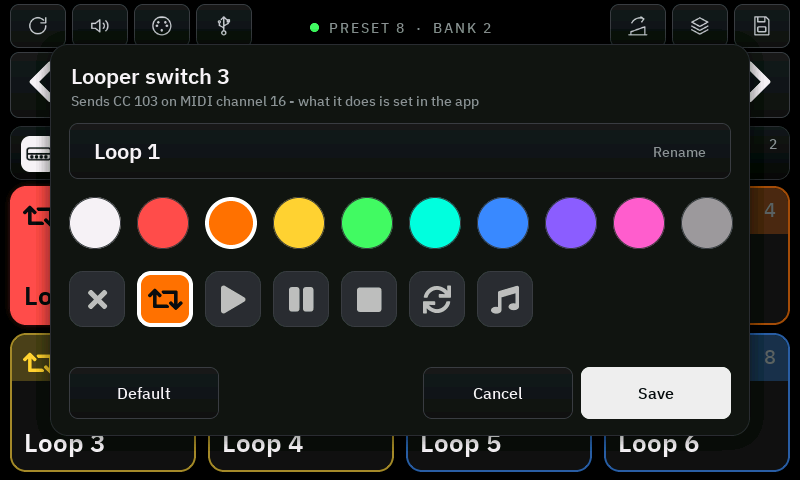
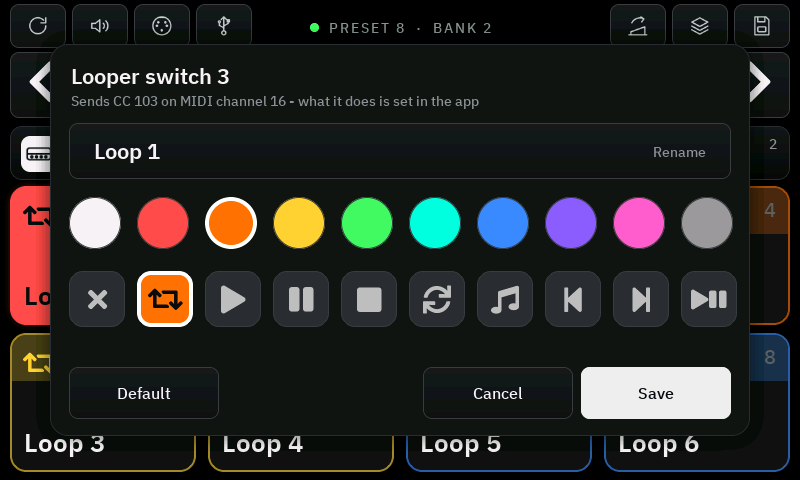
Addad fix for 2. reverb and support for the player in Editor

Changed region(s): [[0.6562, 0.5625, 0.9375, 0.6875]]

diff --git a/main/main.c b/main/main.c
@@ -108,6 +108,9 @@ static looper_tile_t s_looper_tiles[UI_LOOPER_SWITCHES];
 #define LOOPER_STORE_KEY "looper"
 #define LOOPER_STATUS 0xBF            // control change on MIDI channel 16
 #define LOOPER_CC(number) ((uint8_t)(100 + (number)))   // footswitch 2-8 = CC 102-108
+// The Nano Cortex Editor, connected through the controller, hears of every press too ({ 1: footswitch }; a message
+// type of our own, far from the Nano's): it treats it as that controller, for example for its jam track player.
+#define APP_MSG_SWITCH 0x4E430001u
 static bool s_footswitches;     // SX1509 found
 
 // Scenes: up to UI_SCENES per preset on footswitches 3-8, shown in place of the bank's presets (the Scenes button
@@ -181,6 +184,7 @@ static esp_timer_handle_t s_library_timer;
 // After a preset change, state replies of the previous preset can still be on their way; they are ignored
 // until the new preset is confirmed (otherwise the display jumps back and forth).
 static int s_expect_preset;     // 0 = none
+static bool s_expect_ack;       // the Nano has not confirmed the change yet: a state reply is from before it
 static int64_t s_expect_us;
 static int s_bank;              // 0-15
 static int s_last_preset;
@@ -733,7 +737,7 @@ static void looper_tiles_load(void)
     nvs_close(nvs);
 }
 
-// From the looper tile's dialog: "<footswitch 2-8><colour a-j><symbol a-g>name", or "<footswitch>!" for the default.
+// From the looper tile's dialog: "<footswitch 2-8><colour a-j><symbol a-j>name", or "<footswitch>!" for the default.
 static void looper_tile_edit(const char *text)
 {
     int i = text[0] - '2';
@@ -1062,6 +1066,7 @@ static void request_current_state(void)
 }
 
 static void ab_cache(int slot, int delay_ms);
+static void ab_leave_preset(void);
 
 static void select_preset(int preset)
 {
@@ -1070,10 +1075,12 @@ static void select_preset(int preset)
     if (preset > NANO_PRESETS) preset = 1;
     uint8_t buf[64];
     char label[32];
+    ab_leave_preset();   // also for the preset that is on: the Nano reads it from its memory again
     snprintf(label, sizeof(label), "Preset change %d", preset);
     send(label, NANO_MSG_SET_PRESET_SLOTS, buf, nano_preset_change(&s_state, preset, buf));
     s_state.current_preset = preset;
     s_expect_preset = preset;
+    s_expect_ack = true;
     s_expect_us = esp_timer_get_time();
     show();
     schedule_refresh(450);
@@ -2153,6 +2160,27 @@ static void ab_load(int preset)
 }
 
 // The slot of an A/B now (the reverb's slot comes from the preset), -1 = none.
+static int ab_slot(const ab_t *ab);
+static void ab_capture_editor(void);
+
+// A preset is about to be loaded from the Nano's memory - another one, or the one that is on once more. Edits of
+// a second effect are kept; a swap under way stops; and nothing of "B is running" outlives it: the preset's own
+// effect (A) is in the slot again. The next state reply reads the second effects afresh (ab_load), also for the
+// same preset number. Without this, "B" stayed marked as running over a reload, and the state reply naming A's
+// model was taken for a new choice of B - which overwrote the stored second effect.
+static void ab_leave_preset(void)
+{
+    ab_capture_editor();
+    esp_timer_stop(s_ab_timer);
+    for (int i = 0; i < AB_COUNT; i++) {
+        ab_t *ab = &s_ab[i];
+        ab->phase = AB_IDLE;
+        ab->cache_only = ab->restore_off = ab->open_editor = false;
+        ab->preset = 0;   // nothing is stored or compared with the Nano's state until ab_load()
+    }
+    s_last_preset = 0;
+}
+
 static int ab_slot(const ab_t *ab)
 {
     return ab - s_ab == AB_REVERB ? s_mix.slot : 0;
@@ -2584,7 +2612,11 @@ static void looper_set(bool on)
     ESP_LOGI(TAG, "Looper mode %s%s", on ? "on" : "off", on && !phone_midi_connected() ? " (no phone connected)" : "");
     looper_switches();
     if (nano_link_ready()) show();
-    if (on && !phone_midi_connected()) ui_show_message("Looper mode - no phone yet: in Loopy Pro open the menu > Bluetooth Devices.");
+    if (on && !phone_midi_connected() && !app_link_connected()) {
+        ui_show_message("Looper mode - no phone yet: in Loopy Pro open the menu > Bluetooth Devices.");
+    } else if (on && !phone_midi_connected()) {
+        ui_show_message("Looper mode - the footswitches go to the Nano Cortex Editor.");
+    }
 }
 
 // The Scenes button: to the scenes of the preset, or back to the bank's presets if they are showing. Either way
@@ -2629,10 +2661,15 @@ static bool looper_switch(int arg)
         sent = phone_midi_send(LOOPER_STATUS, LOOPER_CC(number), 127);
         phone_midi_send(LOOPER_STATUS, LOOPER_CC(number), 0);
     }
-    ESP_LOGI(TAG, "Looper switch %d: CC %d %s", number, LOOPER_CC(number), sent ? "sent" : "NOT sent");
-    s_looper_sent = sent ? LOOPER_CC(number) : -LOOPER_CC(number);
+    bool app = app_link_connected();   // the editor takes the press as well
+    if (app) {
+        const uint8_t payload[2] = { 0x08, (uint8_t)number };
+        app_link_send(APP_MSG_SWITCH, payload, sizeof(payload));
+    }
+    ESP_LOGI(TAG, "Looper switch %d: CC %d %s%s", number, LOOPER_CC(number), sent ? "sent" : "NOT sent", app ? ", told the editor" : "");
+    s_looper_sent = sent || app ? LOOPER_CC(number) : -LOOPER_CC(number);
     if (nano_link_ready()) show();   // tile 1 says what went out
-    if (!phone_midi_connected()) ui_show_message("No phone connected - in Loopy Pro open the menu > Bluetooth Devices.");
+    if (!phone_midi_connected() && !app) ui_show_message("No phone connected - in Loopy Pro open the menu > Bluetooth Devices.");
     return true;
 }
 
@@ -2947,12 +2984,13 @@ static void handle_message(uint32_t type, const uint8_t *payload, size_t len)
         s_incomplete_retries = 0;
         if (!s_waiting_full_state && s_expect_preset) {
             int reply_preset = (int)nano_field_varint(payload, len, 13) + 1;
-            if (reply_preset != s_expect_preset && esp_timer_get_time() - s_expect_us < 2000000) {
+            if ((reply_preset != s_expect_preset || s_expect_ack) && esp_timer_get_time() - s_expect_us < 2000000) {
                 ESP_LOGI(TAG, "State of preset %d ignored (waiting for preset %d)", reply_preset, s_expect_preset);
                 schedule_refresh(150);   // ask again for the new one
                 break;
             }
             s_expect_preset = 0;
+            s_expect_ack = false;
         }
         bool names = nano_state_apply(&s_state, payload, len);
         // Right after an A/B swap a reply sent before the model change still names the previous model: the slot
@@ -2964,6 +3002,11 @@ static void handle_message(uint32_t type, const uint8_t *payload, size_t len)
             if (!expected || now == expected) continue;
             if (esp_timer_get_time() - ab->swapped_us < AB_SETTLE_US) {
                 s_state.fx_type[ab->slot] = expected;
+            } else if (ab->active && now == ab->a_type) {
+                // The preset's own effect is back while B was running: the preset was loaded again somewhere else
+                // (the app, MIDI at the Nano). B is not touched.
+                ESP_LOGI(TAG, "%s: A is back (%s) - the preset was loaded again", AB_NAMES[i], nano_fx_name(now));
+                ab->active = 0;
             } else if (now) {
                 ESP_LOGI(TAG, "%s %c changed elsewhere: %s", AB_NAMES[i], ab->active ? 'B' : 'A', nano_fx_name(now));
                 if (ab->active) {
@@ -3170,8 +3213,10 @@ static void handle_message(uint32_t type, const uint8_t *payload, size_t len)
         break;
     }
     case NANO_MSG_SET_PRESET_SLOTS: {   // preset changed on the Nano itself
+        ab_leave_preset();   // (before the number changes: edits belong to the preset that was on)
         nano_state_apply_preset_change(&s_state, payload, len);
         s_expect_preset = 0;
+        s_expect_ack = false;
         ESP_LOGI(TAG, "Preset changed on the Nano: %d", s_state.current_preset);
         uint8_t buf[4];
         send("Preset change ack", NANO_MSG_SET_PRESET_SLOTS_RESPONSE, buf, nano_preset_change_ack(buf));
@@ -3180,6 +3225,7 @@ static void handle_message(uint32_t type, const uint8_t *payload, size_t len)
     }
     case NANO_MSG_SET_PRESET_SLOTS_RESPONSE:
         ESP_LOGI(TAG, "Preset change %s", nano_field_varint(payload, len, 4) == 1 ? "confirmed" : "FAILED");
+        s_expect_ack = false;
         if (s_expect_preset) schedule_refresh(40);   // the new preset is ready: read it now (not after a fixed wait)
         break;
     case NANO_MSG_SETTINGS_RESPONSE: {

diff --git a/main/ui.c b/main/ui.c
@@ -95,8 +95,10 @@ static lv_obj_t *s_looper_editor, *s_le_title, *s_le_hint, *s_le_name_label, *s_
 static lv_obj_t *s_le_symbol[UI_LOOPER_SYMBOLS];
 static int s_le_tile, s_le_color, s_le_icon;   // tile 0-6 = footswitch 2-8
 static char s_le_name[UI_LOOPER_NAME];
+// (new ones go at the end: the stored tiles name a symbol by its place)
 static const char *const LOOPER_SYMBOLS[UI_LOOPER_SYMBOLS] = {
     NULL, LV_SYMBOL_LOOP, LV_SYMBOL_PLAY, LV_SYMBOL_PAUSE, LV_SYMBOL_STOP, LV_SYMBOL_REFRESH, LV_SYMBOL_AUDIO,
+    LV_SYMBOL_PREV, LV_SYMBOL_NEXT, LV_SYMBOL_PLAY LV_SYMBOL_PAUSE,   // for a player: previous, next, play / pause
 };
 // Scenes: the button next to Save, the marks on a scene's tile (which effects it switches on) and its dialog
 // (long press on a tile in scene mode): name, colour and the five effects
@@ -1208,6 +1210,7 @@ static void style_looper_editor(void)
         lv_obj_t *sq = s_le_symbol[i], *sym = lv_obj_get_child(sq, 1);
         set_icon_square(sq, color, NULL, true);
         lv_label_set_text(sym, i ? LOOPER_SYMBOLS[i] : LV_SYMBOL_CLOSE);
+        lv_obj_set_style_text_font(sym, i && LOOPER_SYMBOLS[i][3] ? &ui_font_20 : &ui_font_28, 0);   // two symbols in one square: smaller
         lv_obj_set_style_text_color(sym, lv_color_hex(selected ? ink_for(color) : 0xBDBDBD), 0);
         lv_obj_set_style_border_width(sq, selected ? 4 : 1, 0);
         lv_obj_set_style_border_color(sq, lv_color_hex(selected ? 0xFFFFFF : 0x3A3D40), 0);

diff --git a/main/ui.h b/main/ui.h
@@ -67,7 +67,7 @@ typedef void (*ui_command_cb)(char command, int arg);
 
 // Text input from the on-screen keyboard: 'N' = new name for the current preset; '1'-'4' = save the FX editor's
 // values as FX preset 1-4 under this name ("" deletes it). 'L' = a looper tile from its dialog:
-// "<footswitch 2-8><colour a-j><symbol a-g>name", or "<footswitch>!" for the default. 'S' = a scene of the current
+// "<footswitch 2-8><colour a-j><symbol a-j>name", or "<footswitch>!" for the default. 'S' = a scene of the current
 // preset from its dialog: "<footswitch 3-8><colour a-j><five times 0 / 1: FX slot on>name", or "<footswitch>!" to
 // empty it. 'X' = the expression dialog's assignments, saved: one entry per sweep (NANO_EXP_RANGES, in their order),
 // "<0 / 1: on the pedal><heel, two hex digits><toe, two hex digits>", then one per on/off assignment
@@ -80,7 +80,7 @@ typedef void (*ui_param_cb)(int slot, int param, float value);
 // Looper mode: the tiles of footswitches 2-8, each with a name, a colour (as the banks') and a symbol.
 #define UI_LOOPER_SWITCHES 7
 #define UI_LOOPER_NAME 16      // with the terminating 0
-#define UI_LOOPER_SYMBOLS 7    // none, loop, play, pause, stop, undo, note
+#define UI_LOOPER_SYMBOLS 10   // none, loop, play, pause, stop, undo, note, previous, next, play / pause
 
 // Scenes of the current preset (footswitches 3-8 in scene mode).
 #define UI_SCENES 6

diff --git a/docs/manual.de.md b/docs/manual.de.md
@@ -222,7 +222,8 @@ vorne ist, bestimmt, was der Schalter ab dann tut**; der gerade verwendete träg
   und schickt die gespeicherten Werte (dauert etwa eine halbe Sekunde). Kachel 8 zeigt Reverb B und leuchtet,
   solange es läuft; Kachel 7 zeigt das Reverb, das gerade im Slot ist. **EDIT B** lädt B und öffnet den FX-Editor
   zum Einstellen. Reverb B speichert der Controller, pro Preset. Wird das Preset gespeichert, während B läuft,
-  wird B zum Reverb des Presets.
+  wird B zum Reverb des Presets. Ein Preset laden – auch dasselbe noch einmal – bringt immer sein eigenes Reverb (A)
+  zurück; B bleibt gespeichert.
   Auf dem Reiter *MIX POS 1 / 2* gespeichert, ist Fußschalter 8 wieder der Mix-Schalter, und Reverb B bleibt mit
   seinen Einstellungen für später gespeichert; *None* in der Liste entfernt es.
 
@@ -335,7 +336,9 @@ dem Namen **„Nano Cortex Controller“**.
 | 3–8 | CC 103–108 | Loop 1–6 |
 
 **Eigene Namen**: Langes Drücken auf eine Kachel im Looper-Modus öffnet ihr Fenster – Name (Tastatur), Farbe und
-Symbol, gespeichert auf dem Controller; *Default* stellt die oben gezeigte Kachel wieder her. Kachel 1 zeigt, was der
+Symbol, gespeichert auf dem Controller; *Default* stellt die oben gezeigte Kachel wieder her. Die Symbole: Loop,
+Play, Pause, Stop, Undo und eine Note, dazu für einen Player – etwa die Jamtracks des Nano Cortex Editor – Zurück,
+Weiter und Play/Pause. Kachel 1 zeigt, was der
 letzte Tritt gesendet hat (*Sent CC 103*) – hilfreich beim Belegen eines Schalters in der App.
 
 Ab Werk zeigen die Kacheln die Loops in drei Farbpaaren, wie ein zweispaltiges Loopy-Pro-Projekt. Was ein Schalter
@@ -363,6 +366,10 @@ Ohne Controller (oder bevor er verbunden ist) verbindet sich die App wie bisher 
 - Änderungen in der App erscheinen kurz danach am Controller; Änderungen am Controller (Fußschalter, Touch, MIDI)
   lassen die App das Preset neu lesen, wie nach einem Wechsel am Pedal.
 - Solange die App verbunden ist, steht **APP** in der Statuszeile.
+- **Fußschalter für den Editor:** Im Looper-Modus (Fußschalter 1 halten) geht jeder Tritt auf Fußschalter 2–8 auch an
+  den verbundenen Editor. Er nimmt sie als die Controller, die der Looper-Modus sendet (102–108 auf Kanal 16) –
+  ab Werk startet und pausiert Fußschalter 2 seinen Jamtrack-Player, 7 geht zum vorigen Track und 8 zum nächsten;
+  mit MIDI Learn im Editor legst du sie auf etwas anderes. Ein Telefon braucht es dafür nicht.
 
 ## Fußschalter-Learn
 

diff --git a/docs/manual.md b/docs/manual.md
@@ -211,6 +211,7 @@ switch does** from then on; the one in use carries a tick.
   reverb (A) and B; the Nano has one reverb slot, so the controller swaps the model and sends the stored values
   (takes about half a second). Tile 8 shows reverb B and lights up while it runs; tile 7 shows the reverb in the slot. **EDIT B** loads B and opens the FX editor to set it up. Reverb B is stored on the
   controller, per preset. If you save the preset while B is active, B becomes the preset's reverb.
+  Loading a preset – also the one that is on, once more – always brings back its own reverb (A); B stays stored.
   Saved on the *MIX POS 1 / 2* tab, footswitch 8 is the mix switch again and reverb B stays stored with its settings
   for later; *None* in the list removes it.
 
@@ -319,7 +320,8 @@ the name **"Nano Cortex Controller"**.
 | 3–8 | CC 103–108 | Loop 1–6 |
 
 **Your own names**: a long press on a tile in looper mode opens its dialog – name (keyboard), colour and symbol,
-stored on the controller; *Default* brings back the tile shown above. Tile 1 shows what the last press sent
+stored on the controller; *Default* brings back the tile shown above. The symbols: loop, play, pause, stop, undo and
+a note, and for a player – such as the jam tracks of the Nano Cortex Editor – previous, next and play / pause. Tile 1 shows what the last press sent
 (*Sent CC 103*), which helps when you bind a switch in the app.
 
 By default the tiles show the loops in three colour pairs, as a two-column Loopy Pro project does. What a switch
@@ -347,6 +349,10 @@ Without the controller (or before it has connected) the app connects to the Nano
 - Changes made in the app appear on the controller a moment later; changes made on the controller (footswitches,
   touch, MIDI) make the app read the preset again, as after a change on the pedal.
 - While the app is connected, **APP** is shown in the status line.
+- **Footswitches for the editor:** in looper mode (hold footswitch 1) every press of footswitch 2–8 is also passed
+  on to the connected editor. It takes them as the controllers the looper mode sends (102–108 on channel 16) – by
+  default footswitch 2 plays and pauses its jam track player, 7 goes to the previous track and 8 to the next; MIDI
+  Learn in the editor assigns them to anything else. No phone is needed for this.
 
 ## Footswitch learn
 
